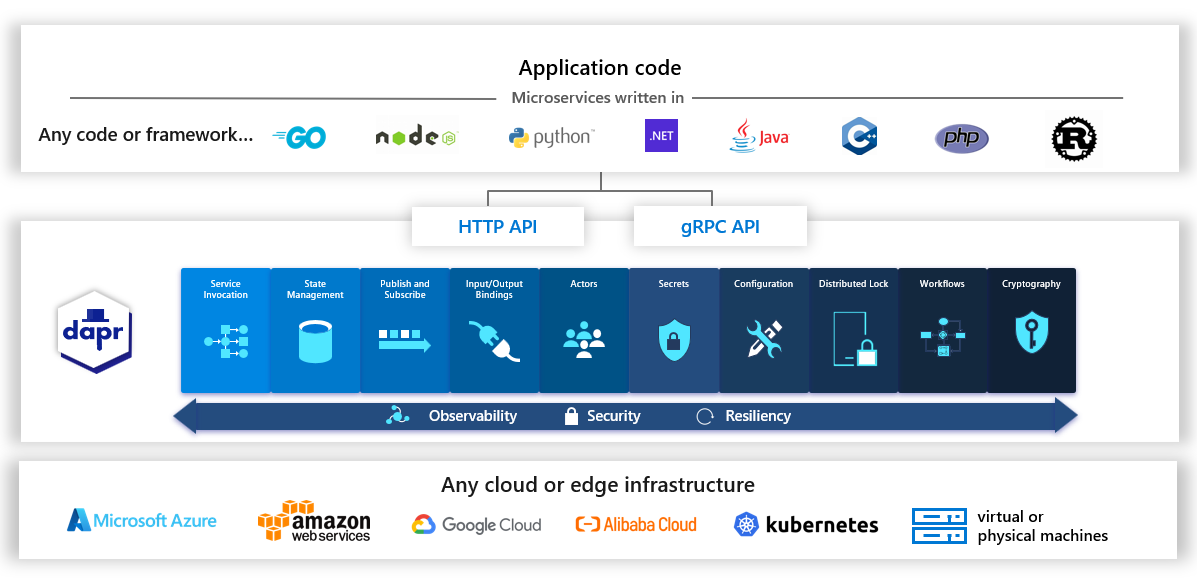
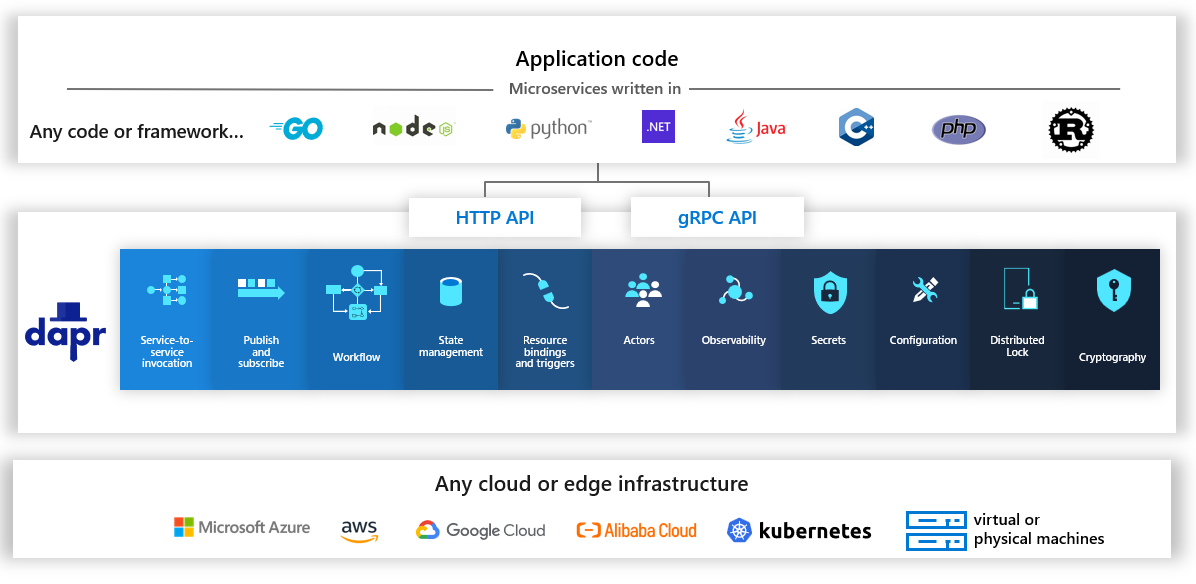
reorder toc and update diagrams

diff --git a/daprdocs/content/en/getting-started/quickstarts/pubsub-quickstart.md b/daprdocs/content/en/getting-started/quickstarts/pubsub-quickstart.md
@@ -2,7 +2,7 @@
 type: docs
 title: "Quickstart: Publish and Subscribe"
 linkTitle: "Publish and Subscribe"
-weight: 73
+weight: 72
 description: "Get started with Dapr's Publish and Subscribe building block"
 ---
 

diff --git a/daprdocs/content/en/getting-started/quickstarts/secrets-quickstart.md b/daprdocs/content/en/getting-started/quickstarts/secrets-quickstart.md
@@ -2,7 +2,7 @@
 type: docs
 title: "Quickstart: Secrets Management"
 linkTitle: "Secrets Management"
-weight: 76
+weight: 77
 description: "Get started with Dapr's Secrets Management building block"
 ---
 

diff --git a/daprdocs/content/en/developing-applications/building-blocks/actors/_index.md b/daprdocs/content/en/developing-applications/building-blocks/actors/_index.md
@@ -2,7 +2,7 @@
 type: docs
 title: "Actors"
 linkTitle: "Actors"
-weight: 50
+weight: 60
 description: Encapsulate code and data in reusable actor objects as a common microservices design pattern
 ---
 

diff --git a/daprdocs/content/en/developing-applications/building-blocks/cryptography/_index.md b/daprdocs/content/en/developing-applications/building-blocks/cryptography/_index.md
@@ -2,7 +2,7 @@
 type: docs
 title: "Cryptography"
 linkTitle: "Cryptography"
-weight: 110
+weight: 100
 description: "Perform cryptographic operations without exposing keys to your application"  
 ---
 

diff --git a/daprdocs/content/en/getting-started/quickstarts/statemanagement-quickstart.md b/daprdocs/content/en/getting-started/quickstarts/statemanagement-quickstart.md
@@ -2,7 +2,7 @@
 type: docs
 title: "Quickstart: State Management"
 linkTitle: "State Management"
-weight: 72
+weight: 74
 description: "Get started with Dapr's State Management building block"
 ---
 

diff --git a/daprdocs/content/en/developing-applications/building-blocks/pubsub/_index.md b/daprdocs/content/en/developing-applications/building-blocks/pubsub/_index.md
@@ -2,7 +2,7 @@
 type: docs
 title: "Publish & subscribe messaging"
 linkTitle: "Publish & subscribe"
-weight: 30
+weight: 20
 description: Secure, scalable messaging between services
 ---
 

diff --git a/daprdocs/content/en/getting-started/quickstarts/bindings-quickstart.md b/daprdocs/content/en/getting-started/quickstarts/bindings-quickstart.md
@@ -2,7 +2,7 @@
 type: docs
 title: "Quickstart: Input & Output Bindings"
 linkTitle: "Bindings"
-weight: 74
+weight: 75
 description: "Get started with Dapr's Binding building block"
 ---
 

diff --git a/daprdocs/content/en/getting-started/quickstarts/configuration-quickstart.md b/daprdocs/content/en/getting-started/quickstarts/configuration-quickstart.md
@@ -2,7 +2,7 @@
 type: docs
 title: "Quickstart: Configuration"
 linkTitle: Configuration
-weight: 77
+weight: 78
 description: Get started with Dapr's Configuration building block
 ---
 

diff --git a/daprdocs/content/en/getting-started/quickstarts/workflow-quickstart.md b/daprdocs/content/en/getting-started/quickstarts/workflow-quickstart.md
@@ -2,7 +2,7 @@
 type: docs
 title: "Quickstart: Workflow"
 linkTitle: Workflow
-weight: 78
+weight: 73
 description: Get started with the Dapr Workflow building block
 ---
 

diff --git a/daprdocs/content/en/getting-started/quickstarts/actors-quickstart.md b/daprdocs/content/en/getting-started/quickstarts/actors-quickstart.md
@@ -2,7 +2,7 @@
 type: docs
 title: "Quickstart: Actors"
 linkTitle: "Actors"
-weight: 75
+weight: 76
 description: "Get started with Dapr's Actors building block"
 ---
 

diff --git a/daprdocs/content/en/developing-applications/building-blocks/state-management/_index.md b/daprdocs/content/en/developing-applications/building-blocks/state-management/_index.md
@@ -2,7 +2,7 @@
 type: docs
 title: "State management"
 linkTitle: "State management"
-weight: 20
+weight: 40
 description: Create long running stateful services
 ---
 

diff --git a/daprdocs/content/en/developing-applications/building-blocks/bindings/_index.md b/daprdocs/content/en/developing-applications/building-blocks/bindings/_index.md
@@ -2,7 +2,7 @@
 type: docs
 title: "Bindings"
 linkTitle: "Bindings"
-weight: 40
+weight: 50
 description: Interface with or be triggered from external systems
 ---
 
